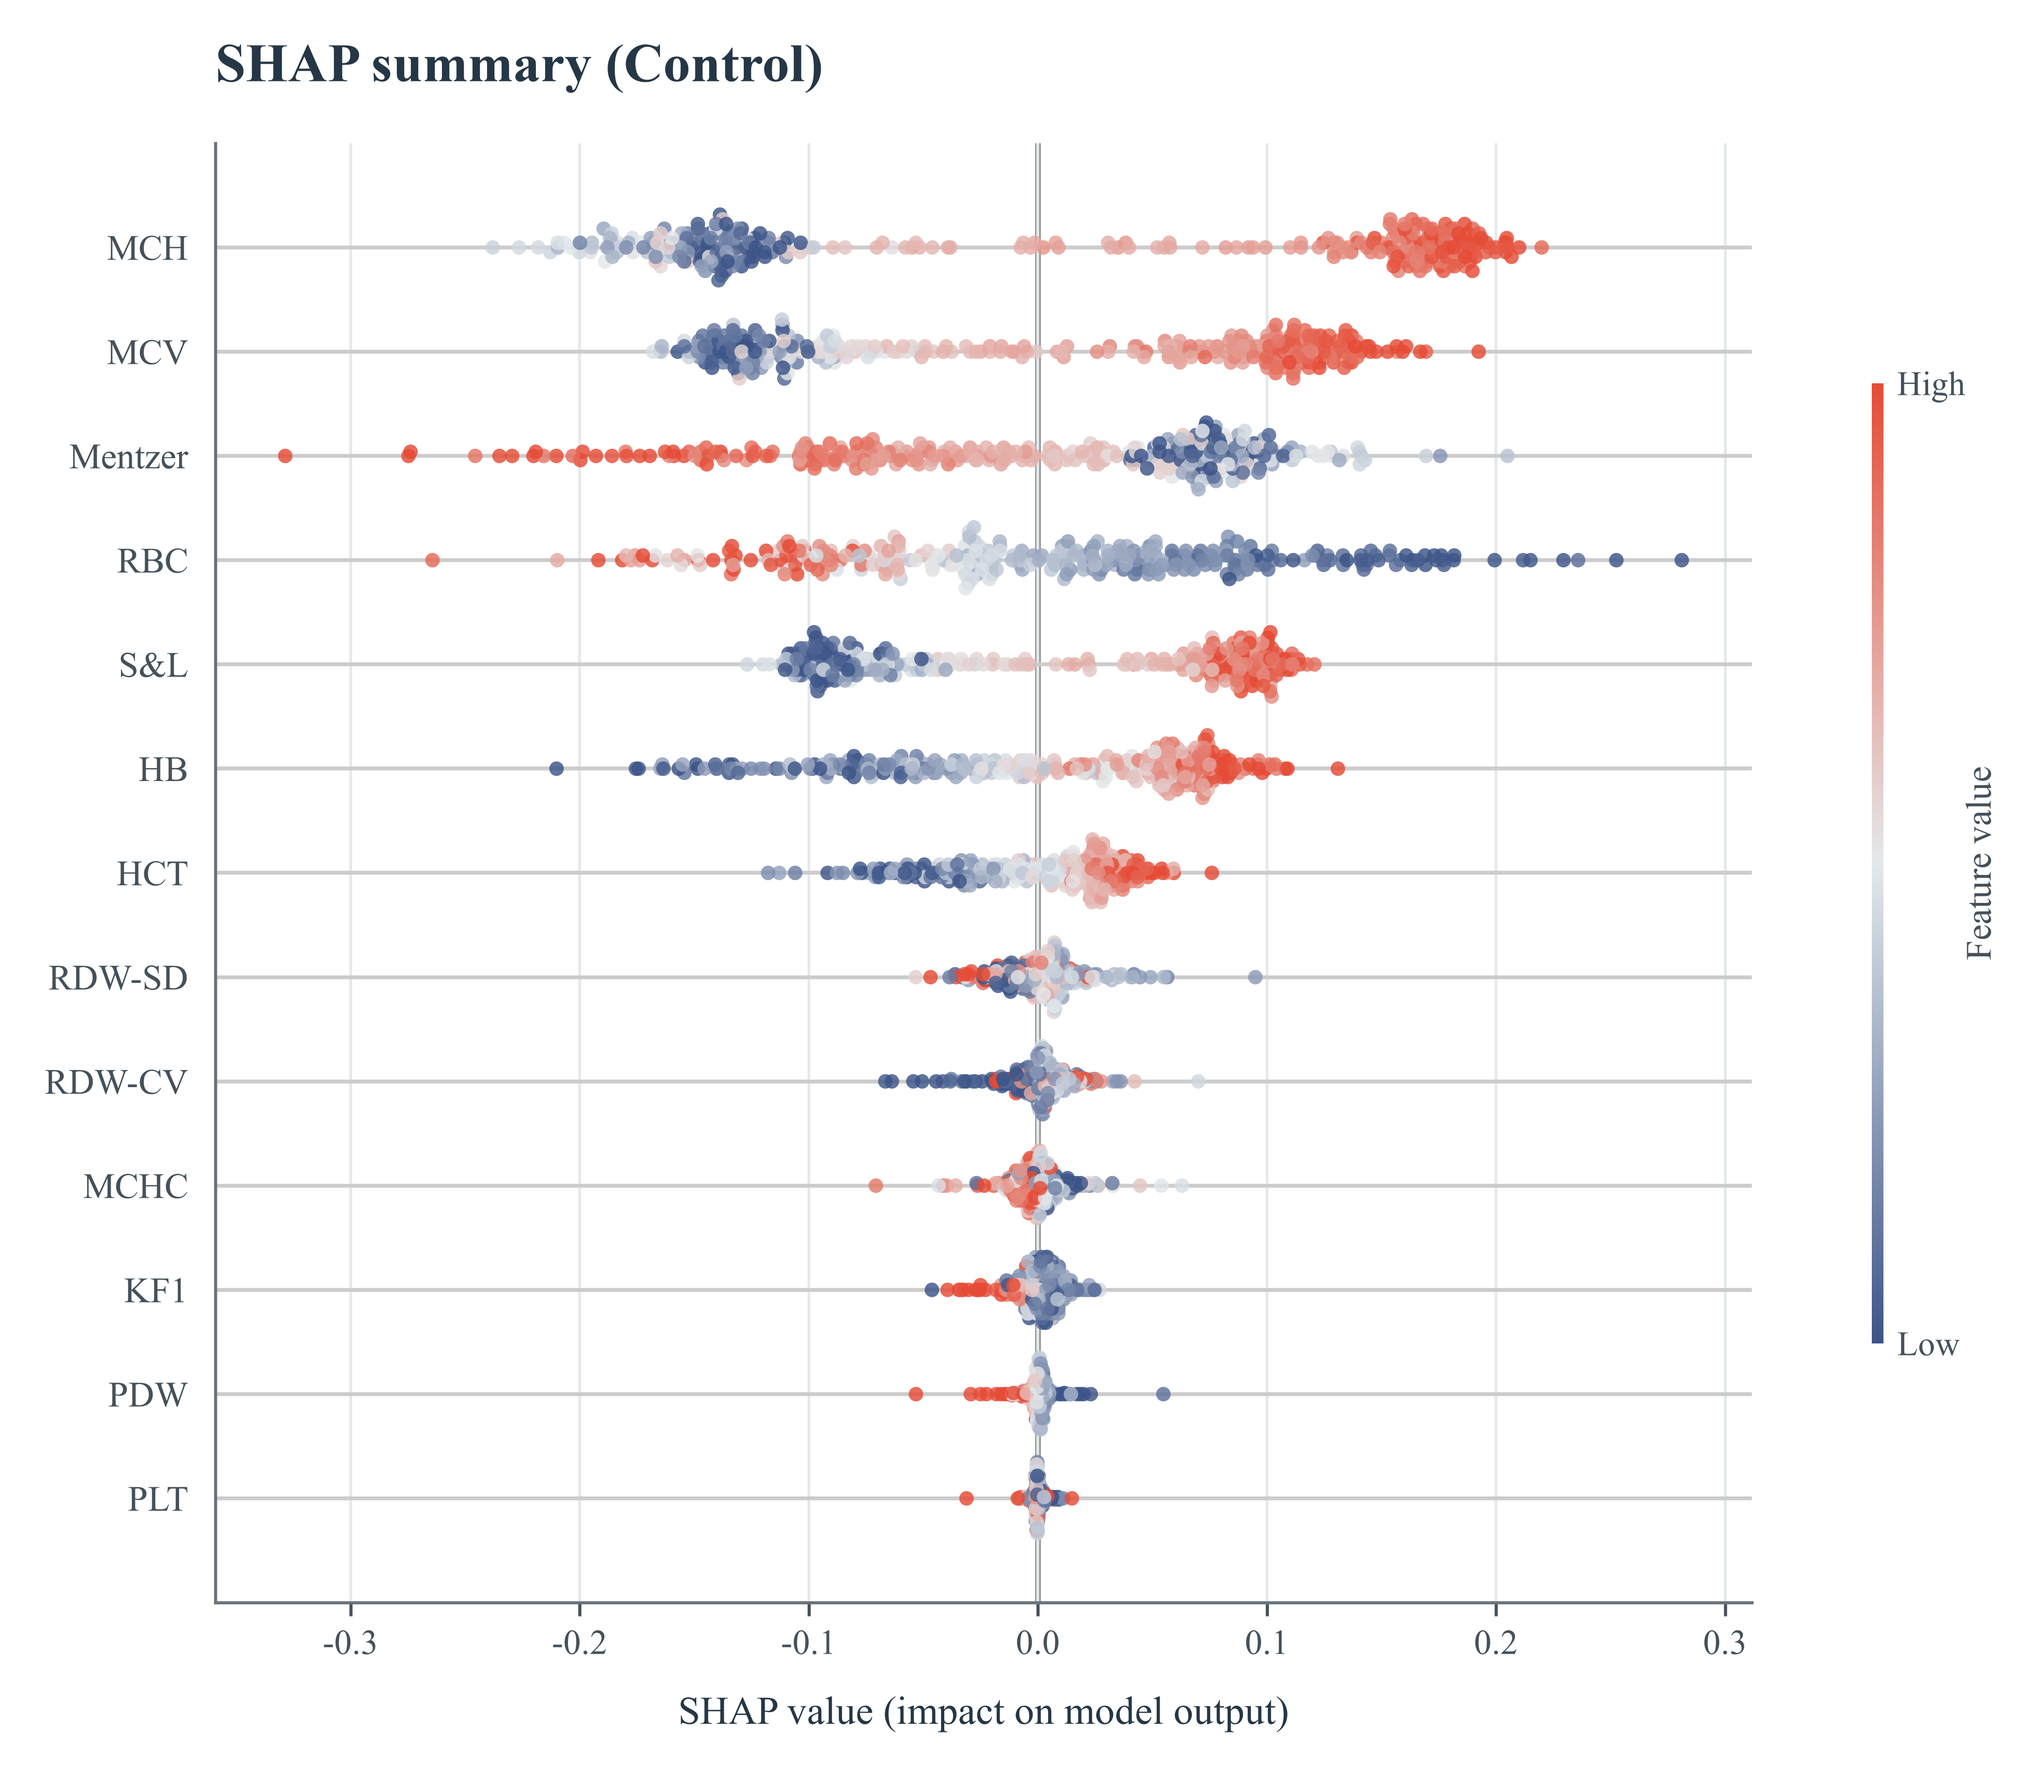
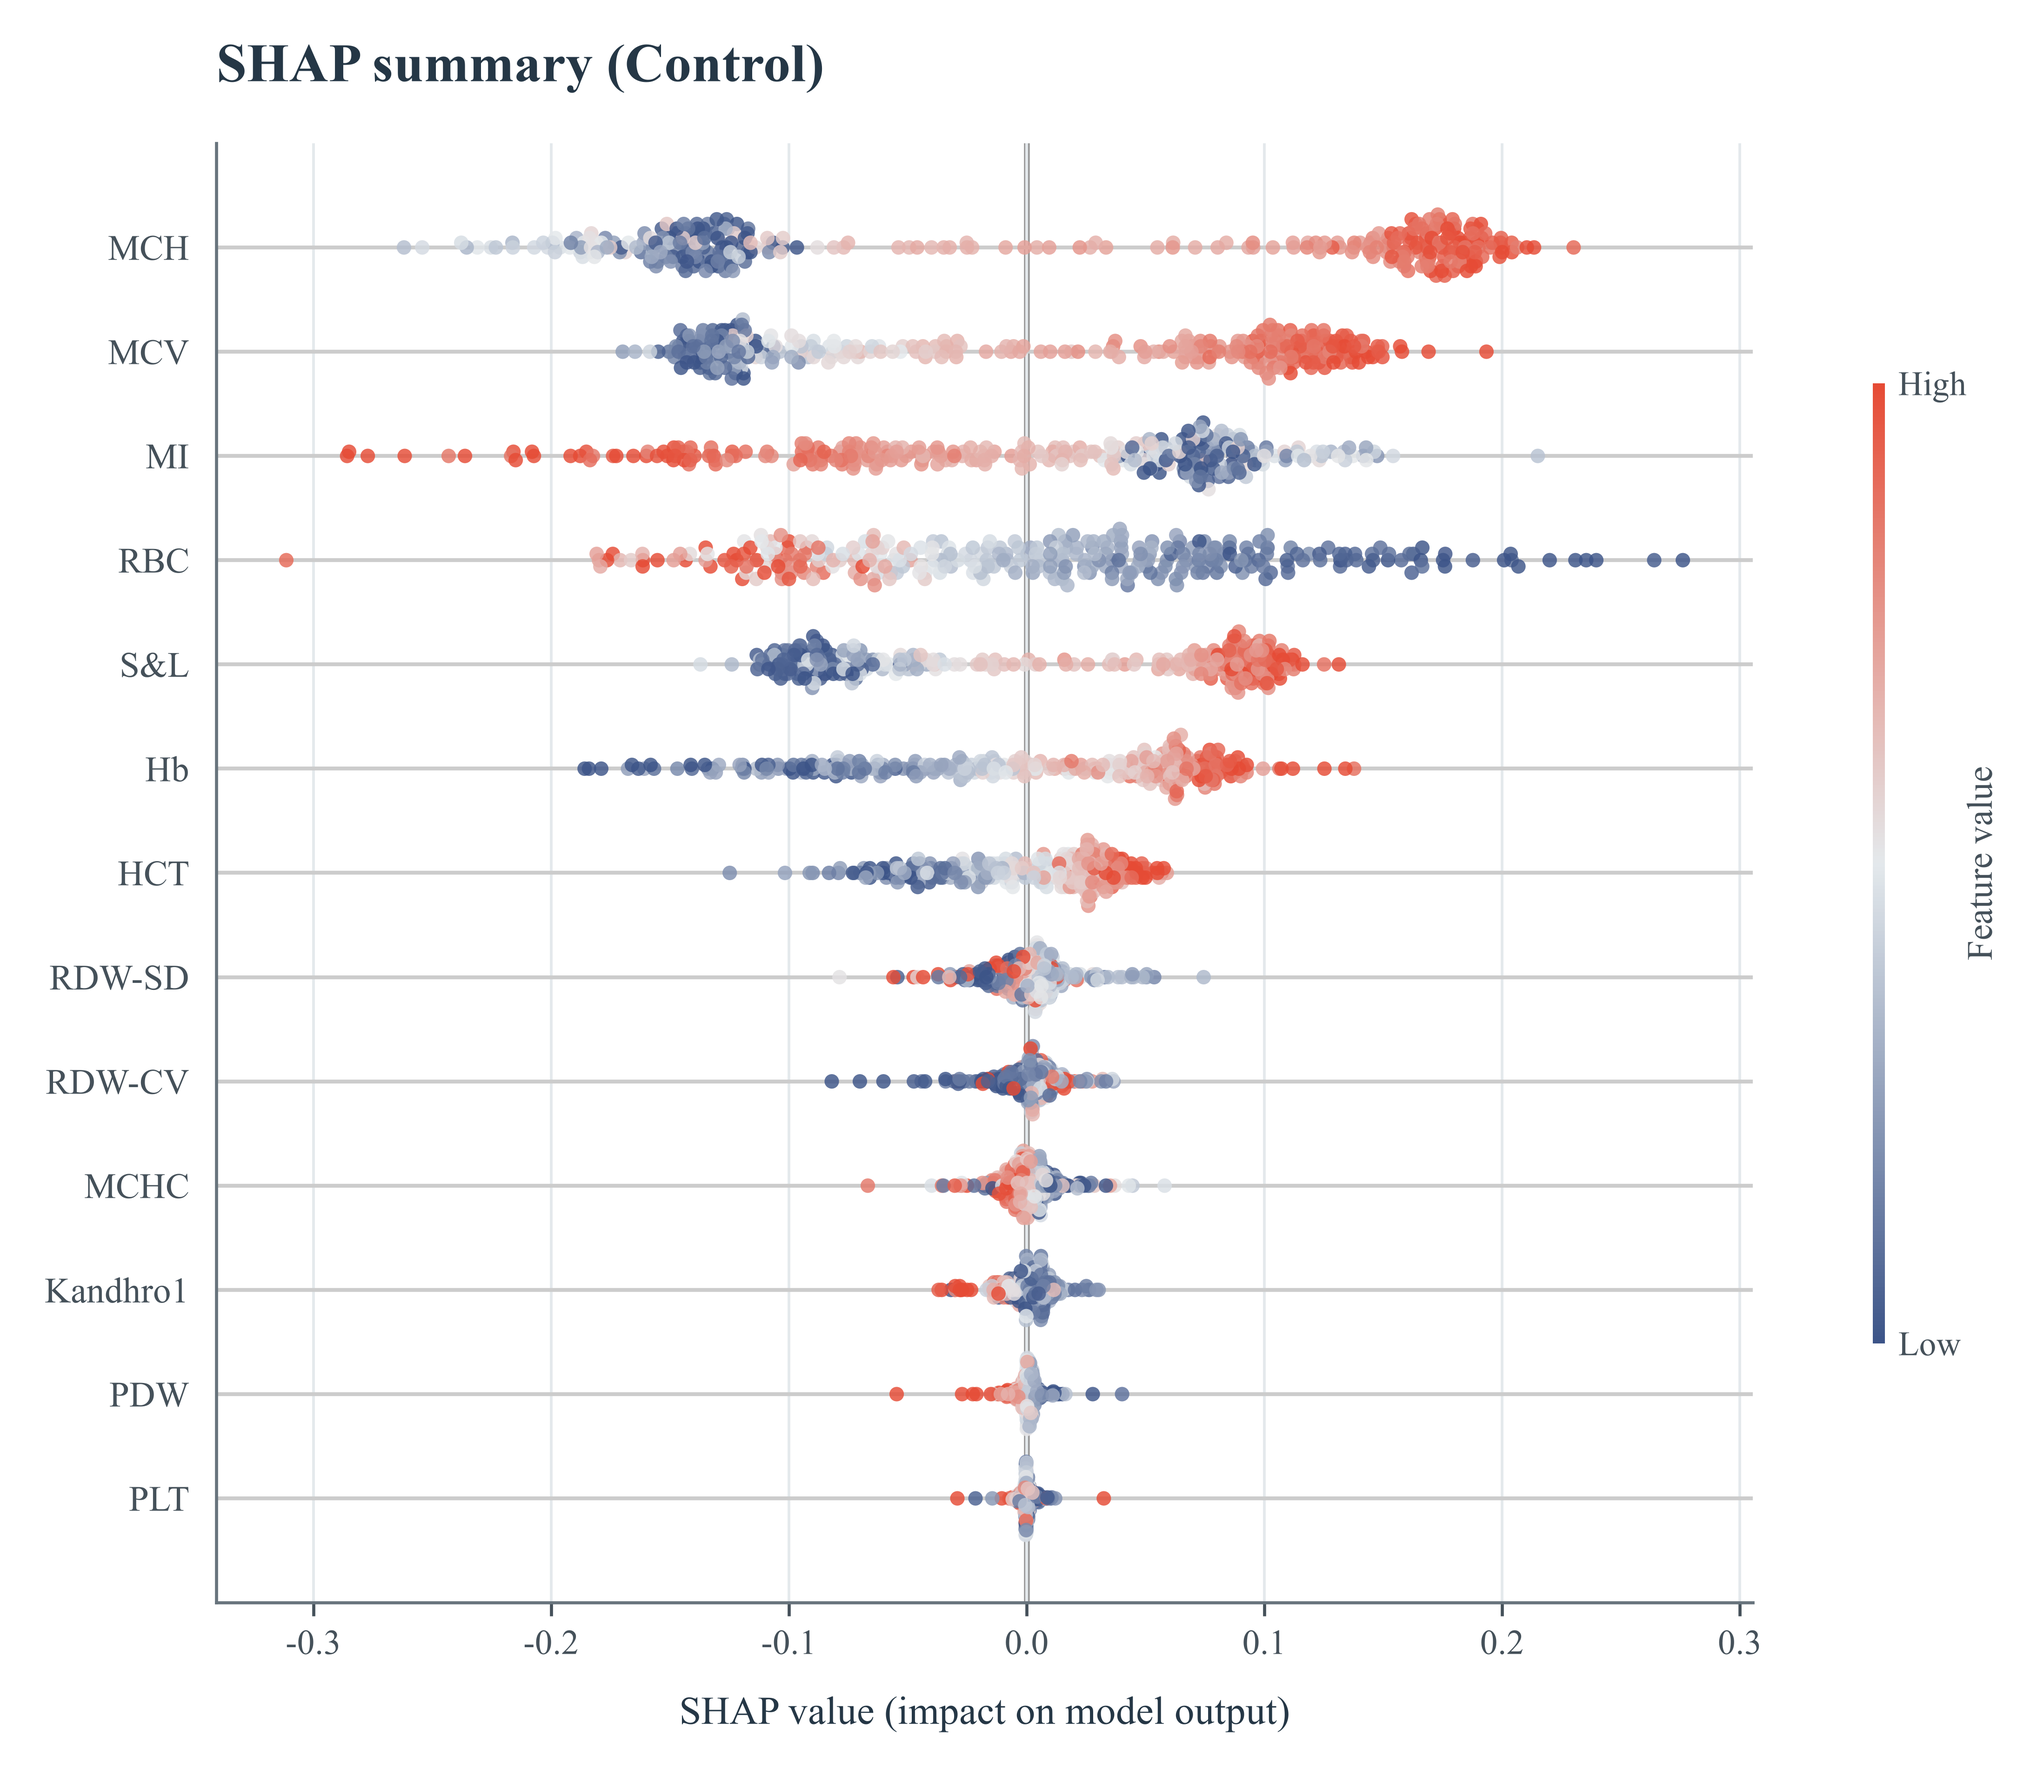
SVC shap图 缩写名更正

diff --git a/visualization/shap_plots.py b/visualization/shap_plots.py
@@ -199,6 +199,7 @@ def plot_shap_summary(shap_explanation, class_index, class_label, save_path=None
 
     aliases = dict(zip(settings.DERIVED_INDEX_CANDIDATES,
                        settings.DERIVED_INDEX_CANDIDATES_New, strict=True))
+    aliases['HB'] = 'Hb'
     allowed = set(settings.BASE_FEATURES_New + settings.DERIVED_INDEX_CANDIDATES_New)
     display_names = [aliases.get(str(name), str(name)) for name in names]
     unknown = sorted(set(display_names) - allowed - {"age"})

diff --git a/config/settings.py b/config/settings.py
@@ -42,7 +42,7 @@ BASE_FEATURES = [
 ]
 
 BASE_FEATURES_New = [
-    "RBC", "HB", "HCT", "MCV", "MCH",
+    "RBC", "Hb", "HCT", "MCV", "MCH",
     "MCHC", "RDW-SD", "RDW-CV", "PLT", "PDW",
 ]
 
@@ -67,9 +67,9 @@ DERIVED_INDEX_CANDIDATES_New = [
     "RI",
     "SI",
     "SF",
-    "KF1",
+    "Kandhro1",
     "S&L",
-    "Mentzer",
+    "MI",
 ]
 
 # 从 9 个衍生指标中最终挑选进入模型的数量上限
